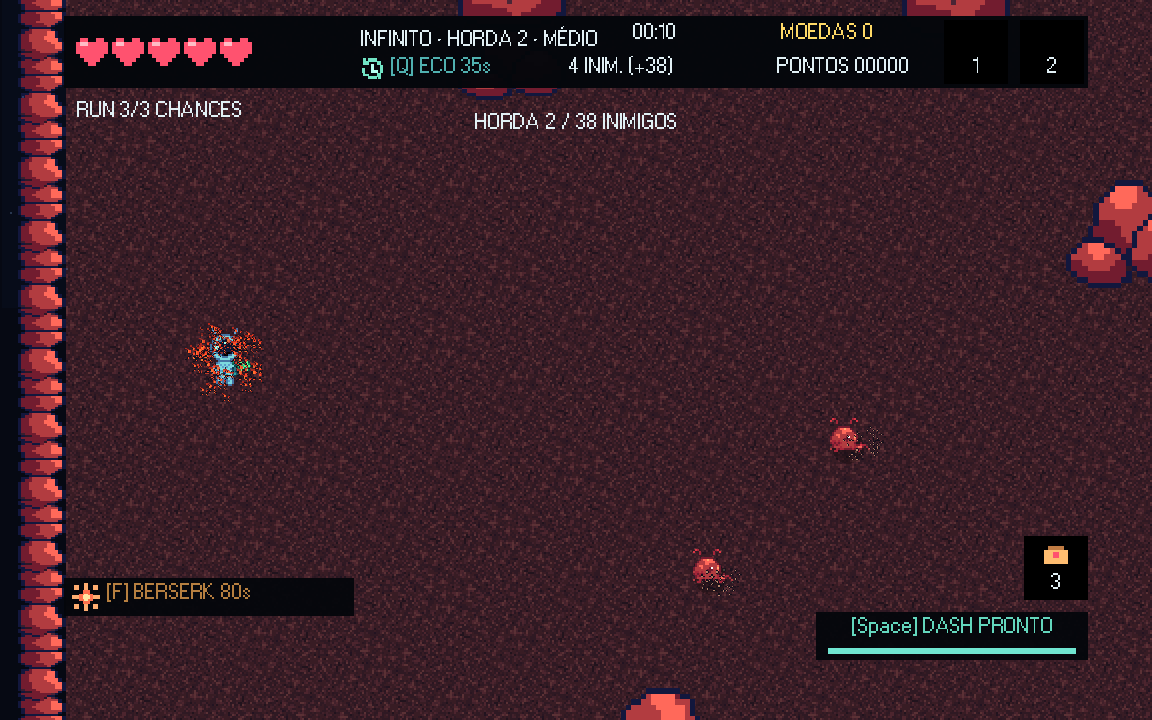
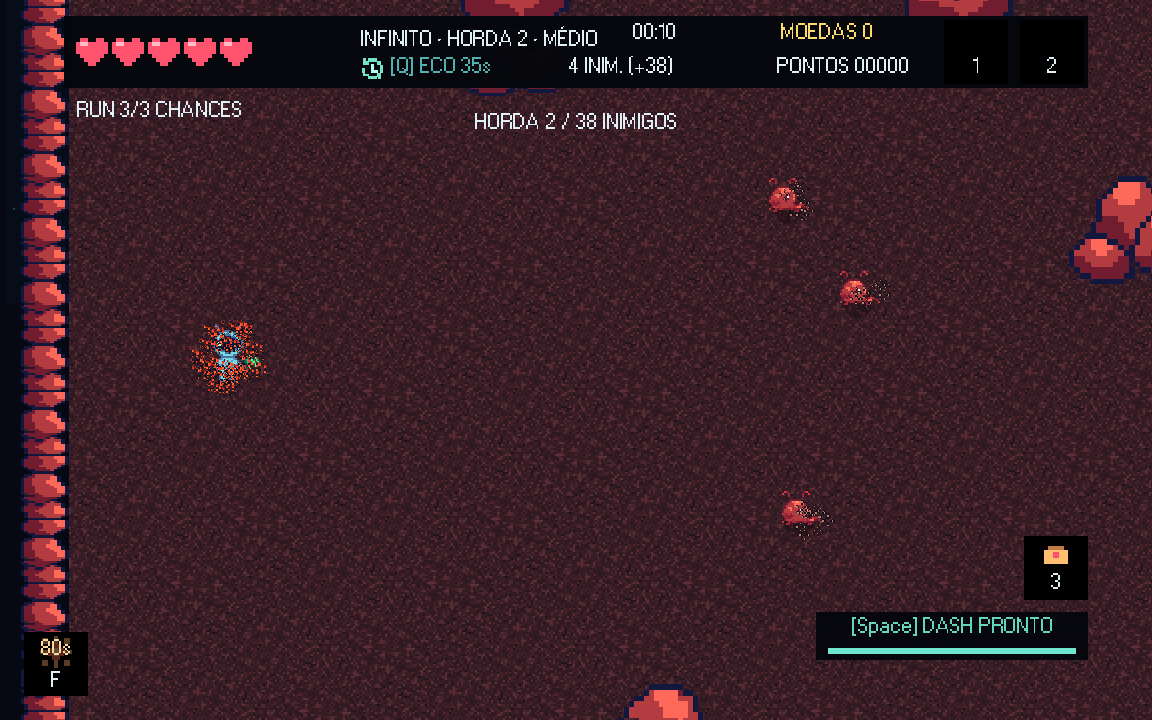
Afasta arma do astronauta e transforma Berserk em slot no canto

diff --git a/README.md b/README.md
@@ -4,7 +4,7 @@ Protótipo 2D de arena para Godot **4.7.2 Standard / GDScript**, criado nesta pa
 
 **Para editar o visual no editor:** veja [Editar no Godot](docs/EDITAR_NO_GODOT.md). Menu, controles, HUD, pausa, upgrades, resultado, arena e atores agora possuem cenas `.tscn` próprias em `scenes/`. O tema compartilhado está em `ui_theme.tres`. Importe o `project.godot` da raiz, não o arquivo existente dentro de `docs`.
 
-## Versão atual: 0.1.8
+## Versão atual: 0.1.9
 
 - Chefe de Netuno animado com os três frames originais de `assets/mobs_netuno/mob_neturno2`.
 - Tela expandida para preencher 1920×1080 e outras proporções sem bordas, com escala uniforme e HUD centralizada.
@@ -132,7 +132,7 @@ O menu **Teste** abre qualquer uma das 13 arenas ou seu chefe, com escolha de eq
 
 Detalhes de implementação e testes: [expansão](docs/EXPANSAO_INFINITA.md).
 
-## Sobrevivência infinita (0.1.8)
+## Sobrevivência infinita (0.1.9)
 
 Em Iniciar Expedição, selecione Sobrevivência no seletor de modo e escolha Fácil, Médio ou Difícil. A arena mede 2048×1344: exatamente o dobro da área da arena inicial (1536×896), sem esticar os pixels.
 
@@ -145,3 +145,5 @@ Baliza de contenção: raio de 320 px, duração de 20 segundos, redução de ve
 Verificação: `Godot --headless --path . --script tests/survival.gd`.
 
 No modo Sobrevivência, Berserk recarrega em 90 segundos e Eco em 45 segundos desde o uso, contados somente durante o combate. Os temporizadores persistem entre hordas e mortes e congelam na loja e nos menus. Berserk continua exigindo a habilidade desbloqueada. Na campanha, Berserk continua limitado a uma vez por run e Eco a uma vez por arena. Os indicadores usam ícones de rajada radial e retorno temporal com texto compacto; nos controles por toque, os próprios botões mostram os segundos restantes.
+
+Visual 0.1.9: arma e arma do Eco orbitam a 22 px do pivô (antes 16 px). Alcance e largura dos projéteis permanecem iguais. Berserk usa slot preto de 64×64 no canto inferior esquerdo, com ícone, tecla configurada e contagem de recarga sobre o ícone. Quando pronto, o ícone fica aceso; detalhes aparecem ao passar o mouse. O contrato foi deslocado para não sobrepor o slot.

diff --git a/docs/EXPORTACAO.md b/docs/EXPORTACAO.md
@@ -3,7 +3,7 @@
 Arquivos de saída:
 
 - builds/windows/OneMoreOrbit.exe: Windows x86_64, release, dados incorporados no executável.
-- builds/android/OneMoreOrbit.apk: Android ARM64 e ARM de 32 bits, release assinado, pacote com.noctir.onemoreorbit, versão 0.1.8.
+- builds/android/OneMoreOrbit.apk: Android ARM64 e ARM de 32 bits, release assinado, pacote com.noctir.onemoreorbit, versão 0.1.9.
 
 Para repetir a exportação, execute tools/export_game.py com Python. Na primeira execução, tools/prepare_exports.py baixa os templates oficiais Godot 4.7.2, OpenJDK Temurin 17 e ferramentas Android oficiais do Google. A instalação fica em .godot/export-tools, sem mudar Java ou Android do sistema. O Godot de exportação usa configuração portátil própria. Defina GODOT_BIN com o caminho do executável Godot 4.7.2; o script também procura Godot no PATH e na pasta Downloads do usuário. Os caminhos locais de templates são aplicados só durante a exportação, e o preset original é restaurado ao finalizar.
 
